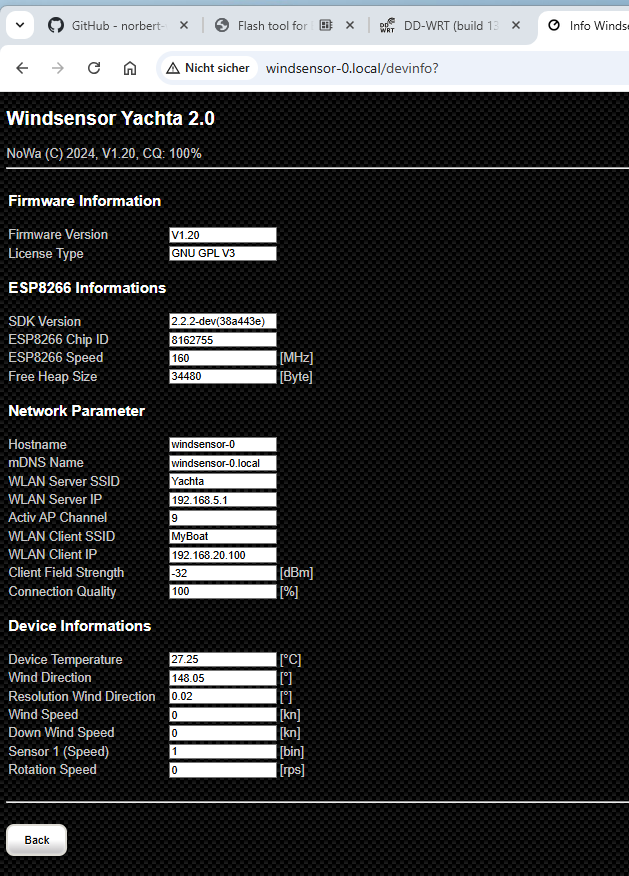
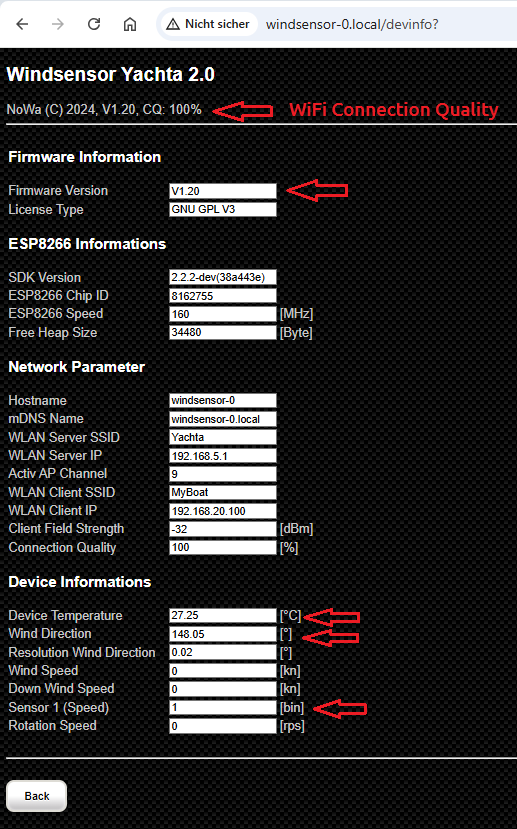
Add pictures

diff --git a/docs/procedure/functional_test.rst b/docs/procedure/functional_test.rst
@@ -42,6 +42,10 @@ Functional test procedure
 	
 	**3. Check the firmware version**
 		* V1.20
+	
+	.. image:: ../pics/Device_Info.png
+	   :scale: 50%		   
+	Fig.: Web page devinfo
     
     **4. Check WiFi connection quality (CQ: > 90% by short distance between router and PCB)**
     
@@ -53,7 +57,7 @@ Functional test procedure
         * Values must change by 90° for a 90° magnet change
         * Angle values must cover 0...360°
         * Offset is uncritical
-		
+	
 	.. image:: ../pics/Install_Windsensor_Yachta.png
 		   :scale: 50%		   
 	Fig.: Test positions on PCB	
@@ -66,6 +70,10 @@ Functional test procedure
     **8. Access the Yachta instrument page and check**
 		* `http://windsensor-0.local/windi`_
 		* Pointer must move slightly
+		
+	.. image:: ../pics/Windsensor Instrument.png
+	   :scale: 50%		   
+	Fig.: Web page devinfo
 		
 .. _http://windsensor-0.local/windi: http://windsensor-0.local/windi	
 	
